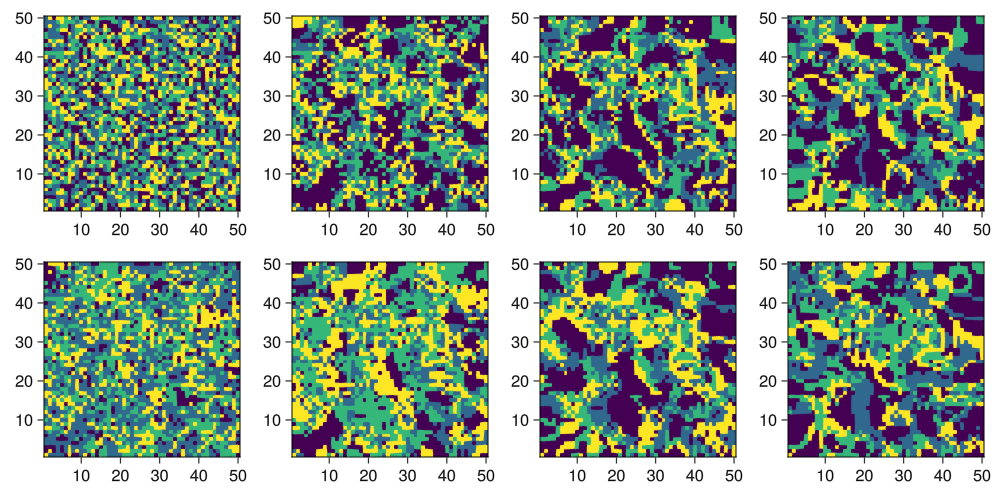
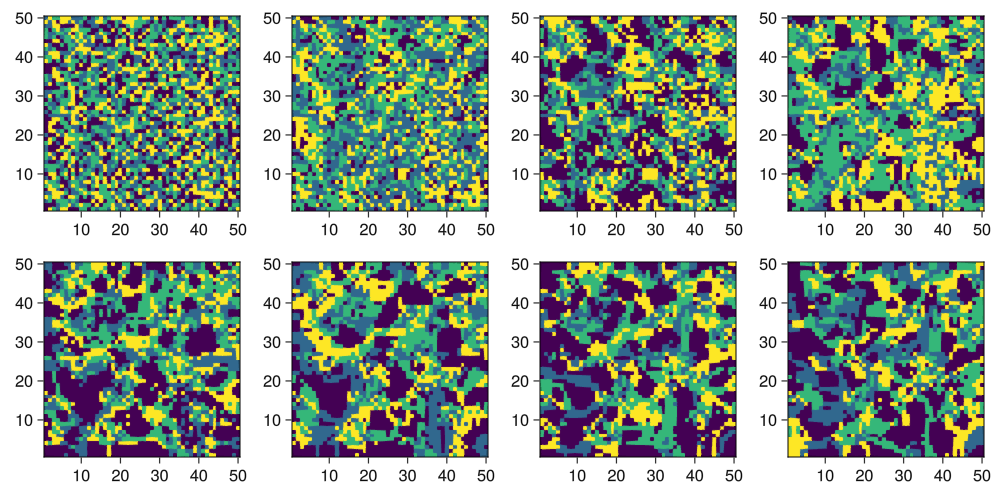
have more scripts in Script namespace; transpose B13 figure 8

diff --git a/docs/src/carbocat-ca.md b/docs/src/carbocat-ca.md
@@ -85,48 +85,54 @@ On my laptop I can run about 150 iterations per second with current code. When u
 ```
 
 ``` {.julia .build file=examples/ca/burgess-2013.jl target="docs/src/fig/b13-fig3.png"}
-using CarboKitten
-using CarboKitten.Burgess2013
-using CarboKitten.Stencil: Reflected
-using CarboKitten.Utility
-using GLMakie
+module Script
+    using .Iterators: flatten
+    using CarboKitten
+    using CarboKitten.Burgess2013
+    using CarboKitten.Stencil: Reflected
+    using CarboKitten.Utility
+    using GLMakie
 
-function main()
-    init = rand(0:3, 50, 50)
-    ca = run_ca(Reflected{2}, MODEL1, init, 3)
+    function main()
+        init = rand(0:3, 50, 50)
+        ca = run_ca(Reflected{2}, MODEL1, init, 3)
 
-    fig = Figure(resolution=(1000, 500))
-    for (i, st) in zip(CartesianIndices((2, 4)), ca)
-        ax = Axis(fig[Tuple(i)...], aspect=AxisAspect(1))
-        heatmap!(ax, st)
+        fig = Figure(resolution=(1000, 500))
+        axis_indices = flatten(eachrow(CartesianIndices((2, 4))))
+        for (i, st) in zip(axis_indices, ca)
+            ax = Axis(fig[Tuple(i)...], aspect=AxisAspect(1))
+            heatmap!(ax, st)
+        end
+        save("docs/src/fig/b13-fig3.png", fig)
     end
-    save("docs/src/fig/b13-fig3.png", fig)
 end
 
-main()
+Script.main()
 ```
 
 
 ``` {.julia .build file=examples/ca/long-term.jl target="docs/src/fig/b13-long-term.png"}
-using CarboKitten
-using CarboKitten.Burgess2013
-using CarboKitten.Stencil
-using CarboKitten.Utility
-using GLMakie
+module Script
+    using CarboKitten
+    using CarboKitten.Burgess2013
+    using CarboKitten.Stencil
+    using CarboKitten.Utility
+    using GLMakie
 
-function main()
-    init = rand(0:3, 50, 50)
-    result = select(run_ca(Periodic{2}, MODEL1, init, 3), [10, 100, 10000])
+    function main()
+        init = rand(0:3, 50, 50)
+        result = select(run_ca(Periodic{2}, MODEL1, init, 3), [10, 100, 10000])
 
-    fig = Figure(resolution=(1000, 333))
-    for (i, st) in enumerate(result)
-        ax = Axis(fig[1, i], aspect=AxisAspect(1))
-        heatmap!(ax, st)
+        fig = Figure(resolution=(1000, 333))
+        for (i, st) in enumerate(result)
+            ax = Axis(fig[1, i], aspect=AxisAspect(1))
+            heatmap!(ax, st)
+        end
+        save("docs/src/fig/b13-long-term.png", fig)
     end
-    save("docs/src/fig/b13-long-term.png", fig)
 end
 
-main()
+Script.main()
 ```
 
 ```@raw html
@@ -159,6 +165,8 @@ What this says is: create a `heatmap` for each of our eight results, then expand
 ## Parameter scan
 
 ``` {.julia file=examples/ca/parameter-scan.jl}
+module Script
+
 using CarboKitten
 using CarboKitten.Burgess2013
 using CarboKitten.Stencil
@@ -192,5 +200,7 @@ function main()
     save("docs/src/fig/parameter-scan.png", fig)
 end
 
-main()
+end  # module Script
+
+Script.main()
 ```
